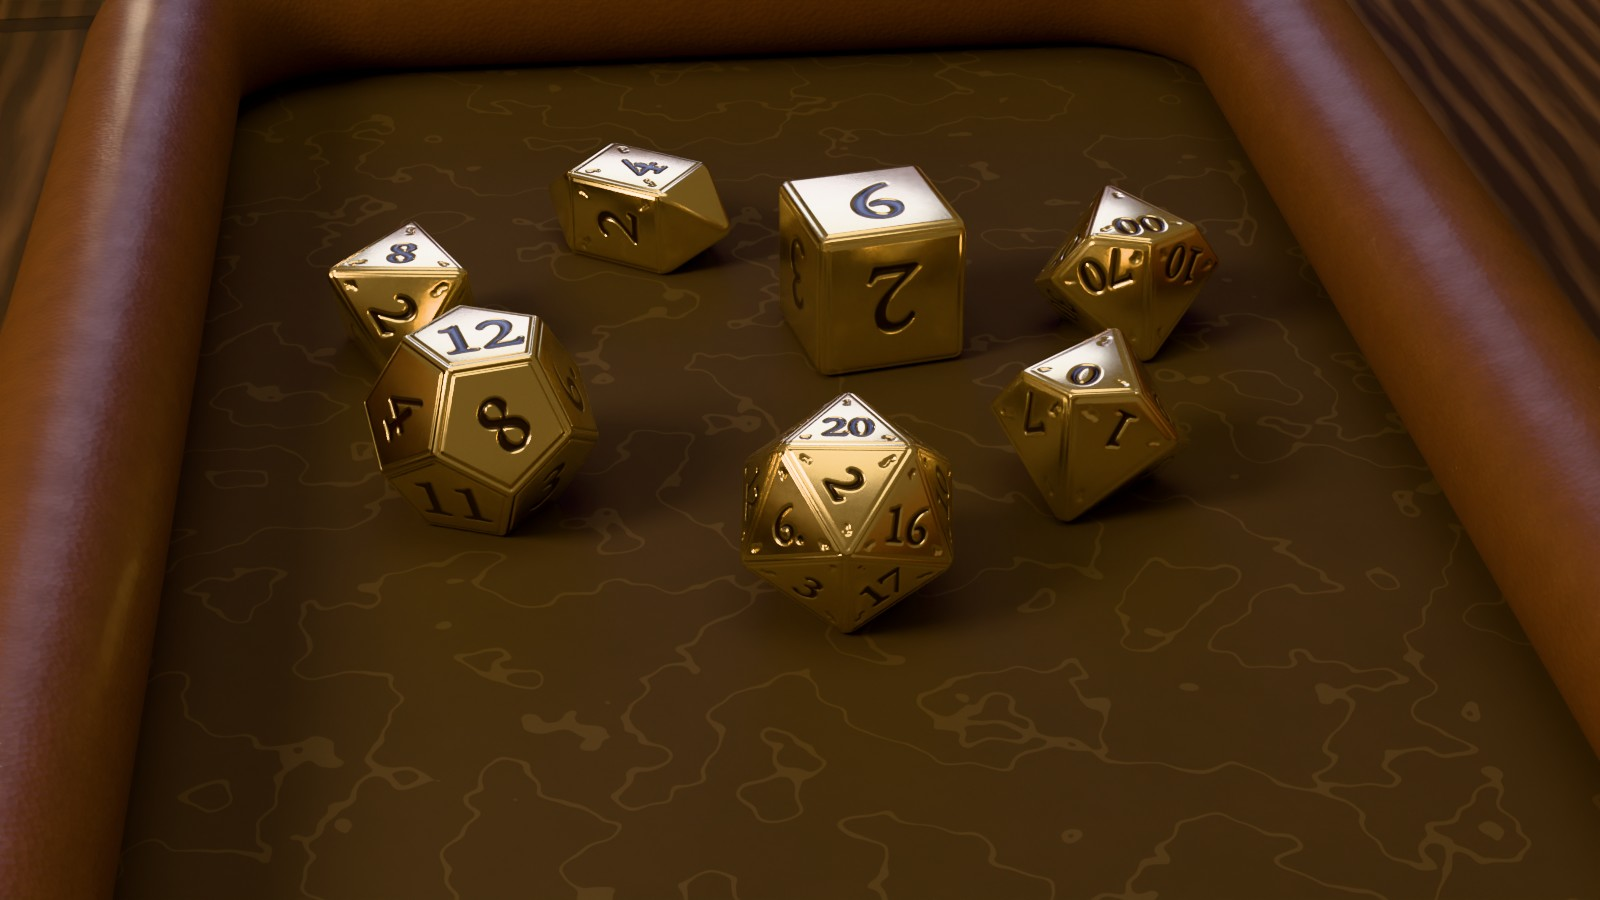
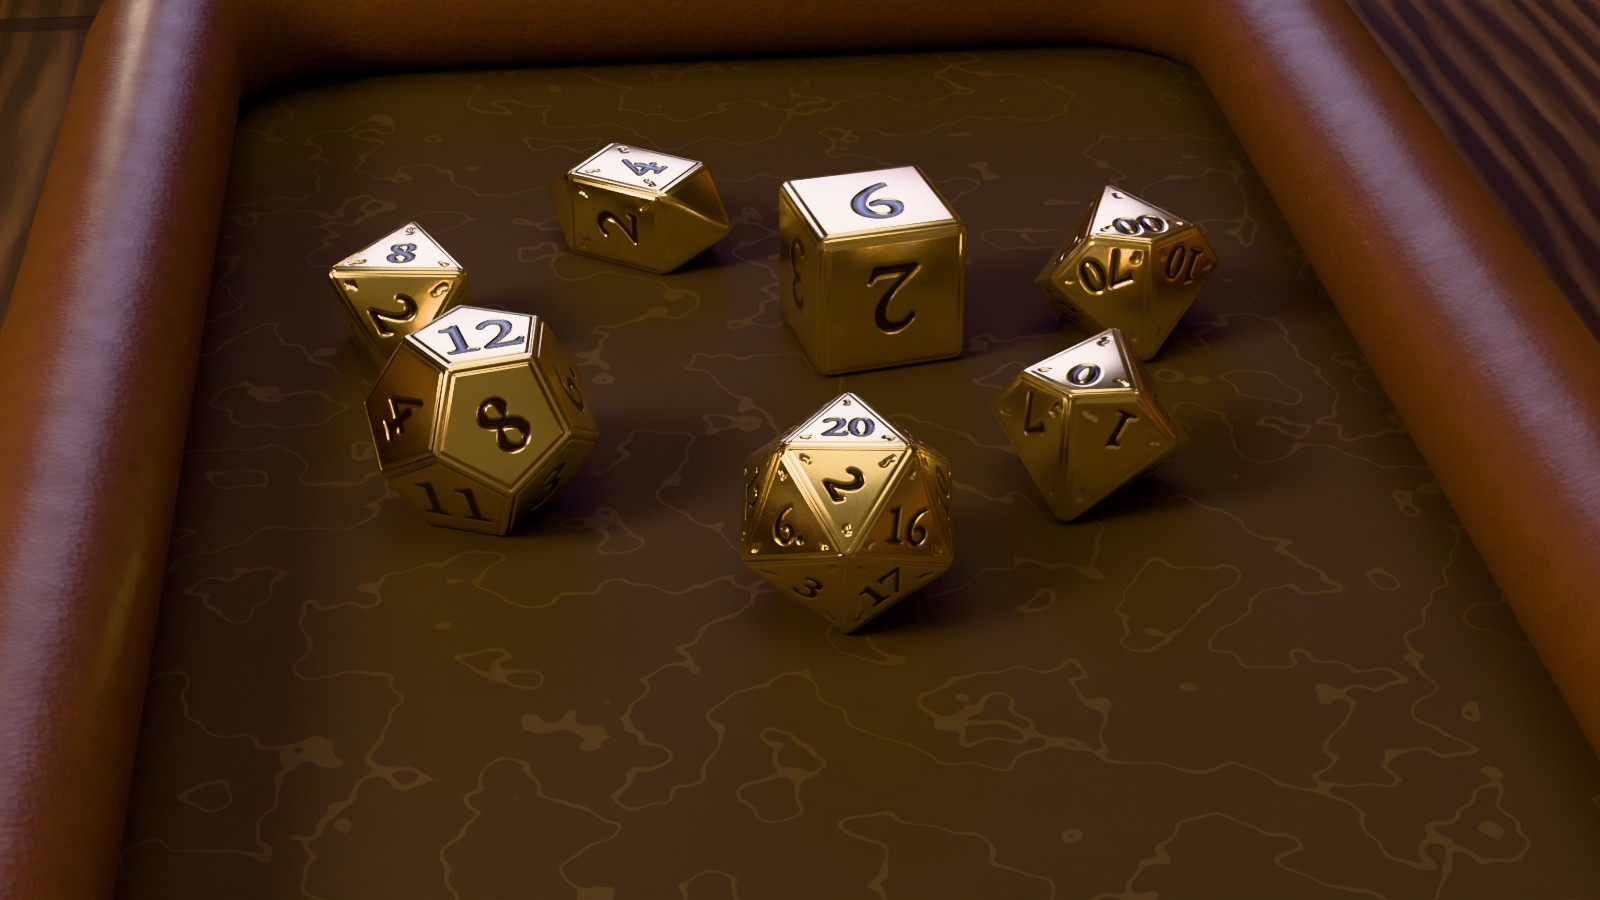
Game rooms: Old Road inn corner; shoji in the kit

diff --git a/dart3d/example/tool/dice_lookdev/build_env_gemcutter.py b/dart3d/example/tool/dice_lookdev/build_env_gemcutter.py
@@ -11,9 +11,11 @@ import math
 import random
 
 import bmesh
+from mathutils import Vector
 
 import env_common as E
 import env_props as P
+import room_common as RC
 
 W, D = E.TRAY_W, E.TRAY_D
 RIM_T, RIM_H = 2.8, 2.6
@@ -104,6 +106,77 @@ def build(scene):
     E.light(scene, "AREA", "fill", (-35, -45, 35), 10000, color=(1.0, 0.85, 0.7), size=40, target=(0, 0, 0))
     E.overhead(scene, 9000, color=(0.95, 0.97, 1.0), size=90, height=110)  # gold enamel reads top-down
     E.light(scene, "AREA", "rim", (30, 60, 20), 2000, color=(0.7, 0.9, 1.0), size=30, target=(0, 0, 2))
+    rc = room(scene, top)
     return dict(
         samples=128, exposure=0.5, topdown=dict(width=W + 2 * RIM_T + 1.0), hero=dict(dist=32, elev=30, az=-8, lens=65, fstop=2.8),
+        play_view=True, tray_half=(W / 2 + RIM_T, D / 2 + RIM_T), room_cam=rc,
     )
+
+
+def room(scene, top):
+    """The jeweler's workshop (concept: room-concepts/gemcutter-room).
+
+    Dark panelled walls, a tall window at the back-right onto a spired city
+    at sunset, a many-drawered gem chest and a tool rack on the right, glass
+    display shelves of cut stones on the left, a brass balance on the bench.
+    Lights from four sides: the bench lamp (cool white key, from the back,
+    now on a proper arm), the sunset window (warm orange, back-right), an
+    emerald-glass lamp on the gem chest (green accent, right) and a brass
+    wall lamp on the left (warm); plus the tray's fill, overhead and rim.
+    """
+    panel = P.dark_wood("Atelier panel", c1=(0.025, 0.014, 0.01), c2=(0.07, 0.04, 0.025), varnish=0.5)
+    walnut = P.dark_wood("Atelier walnut", c1=(0.05, 0.025, 0.012), c2=(0.16, 0.08, 0.04), varnish=0.7)
+    brass = P.brass("Atelier brass", worn=0.4)
+    RC.shell(half_w=180, back=150, front=-180, height=260, wall=panel, floor=RC.planks("Atelier floor"),
+             openings={"back": [(70, 80, 110, 170)]})
+    RC.work_table(200, 150, top_z=0.0, thick=6.0, mat=walnut, leg_r=6, y=20, top=False)
+    sunset = RC.sky("Atelier sunset", (0.1, 0.1, 0.3), (1.0, 0.55, 0.25), strength=0.9,
+                    skyline=((0.03, 0.025, 0.05), 0.35))
+    RC.window("back", 70, 80, 110, 170, sunset, brass, mullions=(3, 4), bar=1.2,
+              glow=(35000, (1.0, 0.62, 0.35)))
+    # the bench lamp's arm (its head and light come from the tray environment)
+    E.cylinder("lamp_arm", 0.8, 42, (12, top + 22, 20), brass, segs=12)
+    E.cylinder("lamp_base", 6, 2, (12, top + 22, 1), brass, segs=32)
+    # a many-drawered gem chest on the right with an emerald lamp on it
+    chest = RC.cabinet("right", 60, w=90, h=110, depth=45, mat=walnut, top_mat=walnut, doors=1)
+    knob = E.simple("Drawer brass", (0.8, 0.6, 0.3), 0.3, 1.0)
+    for i in range(4):
+        for j in range(6):
+            p = RC.to_world("right", 60 - 33 + i * 22, (0, -46, RC.FLOOR_Z + 14 + j * 16))
+            E.cube("drawer_front", (1.2, 20, 14), p, walnut, bevel=0.3)
+            E.sphere("drawer_knob", 1.0, p + Vector((-1.5, 0, 0)), knob, subdiv=1)
+    lp = RC.to_world("right", 60, (0, -25, RC.FLOOR_Z + 112))
+    E.cube("emerald_lamp", (14, 14, 24), (lp.x, lp.y, lp.z + 14), P.glass("Emerald lamp glass",
+           color=(0.2, 0.9, 0.4), rough=0.15)).visible_shadow = False
+    E.cylinder("emerald_lamp_cap", 9, 5, (lp.x, lp.y, lp.z + 28), brass, segs=4, r2=2)
+    E.sphere("emerald_core", 4, (lp.x, lp.y, lp.z + 13), E.emissive("Emerald glow", (0.1, 1.0, 0.35), 8.0))
+    E.light(scene, "POINT", "emerald_light", (lp.x, lp.y, lp.z + 13), 12000, color=(0.2, 1.0, 0.4), size=6,
+            shadow=False)
+    # tool rack on the right wall: pliers, files and gravers standing in a block
+    rng = random.Random(33)
+    steel = E.simple("Tool steel", (0.6, 0.6, 0.62), 0.25, 1.0)
+    for i in range(16):
+        p = RC.to_world("right", -20 + i * 4, (0, -6, RC.FLOOR_Z + 150 + rng.uniform(-4, 4)))
+        E.cylinder("tool", 0.5, rng.uniform(16, 26), p, steel, segs=8)
+    E.cube("tool_rack", (6, 70, 4), RC.to_world("right", 10, (0, -6, RC.FLOOR_Z + 142)), walnut)
+    # glass display shelves of cut stones on the left wall
+    gem_cols = [(0.1, 0.8, 0.3), (0.8, 0.1, 0.15), (0.15, 0.3, 0.9), (0.9, 0.9, 0.95), (0.7, 0.5, 0.1)]
+    for j, z in enumerate((RC.FLOOR_Z + 110, RC.FLOOR_Z + 150, RC.FLOOR_Z + 190)):
+        E.cube("display_shelf", (30, 160, 2), RC.to_world("left", 30, (0, -15, z)), P.glass("Shelf glass"))
+        for i in range(8):
+            p = RC.to_world("left", -40 + i * 20, (0, -15, z + 4))
+            E.sphere("display_gem", 2.8, p, P.glass(f"Gem {j} {i}", color=gem_cols[(i + j) % 5], ior=1.7),
+                     subdiv=1, scale=(1, 1, 0.8))
+    RC.sconce(scene, "left", -60, 90, energy=12000, mat=brass)
+    # a brass balance on the bench, behind-left of the tray
+    bx, by = -45, 70
+    E.cylinder("balance_base", 7, 2, (bx, by, 1), brass, segs=32)
+    E.cylinder("balance_post", 0.8, 34, (bx, by, 18), brass, segs=12)
+    E.cube("balance_beam", (36, 1, 1), (bx, by, 35), brass)
+    for sx in (-1, 1):
+        for a in range(3):
+            ang = a * 2.09
+            ch = E.cylinder("balance_chain", 0.15, 16, (bx + sx * 17 + math.cos(ang) * 2.5, by + math.sin(ang) * 2.5,
+                                                        27), brass, segs=4)
+        E.cylinder("balance_pan", 6, 1, (bx + sx * 17, by, 19), brass, segs=32, r2=4)
+    return dict(loc=(-20, -72, 42), target=(18, 100, 6), lens=20, fstop=4.0, focus=(0, 0, 2))

diff --git a/dart3d/example/tool/dice_lookdev/build_env_vermilion.py b/dart3d/example/tool/dice_lookdev/build_env_vermilion.py
@@ -12,6 +12,7 @@ import random
 
 import env_common as E
 import env_props as P
+import room_common as RC
 
 W, D = E.TRAY_W, E.TRAY_D
 RIM_T, RIM_H = 2.2, 2.4
@@ -135,4 +136,73 @@ def build(scene):
     return dict(
         samples=128, exposure=1.3, topdown=dict(width=W + 2 * RIM_T + 1.0), surface_z=1.2, centre=(0, 2.0, 2.2),
         hero=dict(dist=32, elev=30, az=8, lens=65, fstop=2.8),
+        play_view=True, tray_half=(W / 2 + RIM_T, D / 2 + RIM_T), room_cam=room(scene, lac),
     )
+
+
+def room(scene, lac):
+    """The lantern pavilion (concept: room-concepts/vermilion-room).
+
+    A tatami room (the tray sits on the mats; floor z = 0) with lacquered
+    posts, shoji walls glowing on the left, the gold-leaf folding screen
+    behind the tray, and the back open onto a veranda railing over dusk
+    mountains, a pagoda silhouette and a cherry tree. Lights from four
+    sides: a paper andon floor lantern (warm, left), a big vermilion paper
+    lantern (red accent, right), the dusk sky through the opening (cool
+    violet, back) and the tray's warm key and overhead.
+    """
+    wood = P.dark_wood("Pavilion wood", c1=(0.03, 0.012, 0.008), c2=(0.1, 0.04, 0.02), varnish=0.7)
+    red = E.simple("Vermilion lacquer", (0.45, 0.04, 0.02), 0.25, Coat_Weight=1.0)
+    RC.shell(half_w=200, back=180, front=-200, height=230, wall=RC.plaster("Pavilion plaster", (0.35, 0.3, 0.24)),
+             floor=False, floor_z=0.0, openings={"back": [(0, 105, 300, 190)]},
+             ceiling=P.dark_wood("Pavilion ceiling", c1=(0.03, 0.015, 0.01), c2=(0.07, 0.035, 0.02)))
+    dusk = RC.sky("Pavilion dusk", (0.08, 0.07, 0.2), (0.5, 0.3, 0.4), stars=0.8, strength=0.8,
+                  skyline=((0.06, 0.05, 0.12), 0.35, False))
+    RC.window("back", 0, 105, 300, 190, dusk, wood, mullions=(1, 1), sill=False, glow=(30000, (0.6, 0.55, 1.0)))
+    # the veranda beyond: posts and a railing, a pagoda and a cherry tree against the sky
+    for x in (-150, -50, 50, 150):
+        E.cube("veranda_post", (12, 12, 230), (x, 230, 115), red, bevel=1.0)
+    E.cube("veranda_rail", (320, 6, 5), (0, 230, 55), red, bevel=0.5)
+    E.cube("veranda_rail_low", (320, 6, 4), (0, 230, 25), red, bevel=0.5)
+    E.plane("veranda_deck", 360, 100, (0, 230, -0.5), wood)
+    far = E.emissive("Pagoda silhouette", (0.05, 0.04, 0.09), 1.0)
+    px, py = 90, 262
+    for i, (wd, z) in enumerate(((46, 120), (38, 145), (30, 168), (22, 188))):
+        E.cube("pagoda_body", (wd * 0.6, 8, 20), (px, py, z), far)
+        E.cylinder("pagoda_roof", wd * 0.75, 7, (px, py, z + 12), far, segs=4, r2=wd * 0.25).rotation_euler = \
+            (0, 0, math.radians(45))
+    E.cylinder("pagoda_spire", 0.8, 25, (px, py, 210), far, segs=6)
+    E.cube("pagoda_hill", (160, 8, 110), (px + 10, py + 2, 50), far)
+    bark = E.simple("Cherry bark", (0.03, 0.02, 0.02), 0.8)
+    blossom = E.simple("Blossom", (0.95, 0.6, 0.7), 0.6, Subsurface_Weight=0.4, Emission_Color=(1.0, 0.6, 0.7, 1),
+                       Emission_Strength=0.15)
+    tr = E.cylinder("cherry_trunk", 6, 200, (-110, 250, 100), bark, segs=12, r2=3)
+    tr.rotation_euler = (0, math.radians(8), 0)
+    rng = random.Random(12)
+    for i in range(22):
+        E.rock(f"blossom{i}", rng.uniform(12, 22), (-110 + rng.uniform(-70, 60), 250 + rng.uniform(-10, 15),
+                                                    rng.uniform(150, 230)), blossom, seed=300 + i,
+               squash=(1.2, 0.8, 0.8), strength=0.4, subdiv=3)
+    # lacquered posts at the corners of the room, a lintel over the opening
+    for x in (-160, 160):
+        E.cube("post", (14, 14, 230), (x, 170, 115), wood, bevel=1.0)
+    # shoji along the left wall, glowing
+    for u in (-140, -60, 20, 100):
+        RC.shoji("left", u, 78, 190, wood, glow=0.35)
+    # a tansu chest on the right wall, cushions on the mats
+    RC.cabinet("right", 60, w=110, h=70, depth=45, mat=wood, top_mat=red, doors=3)
+    cush = E.simple("Zabuton", (0.05, 0.05, 0.14), 0.8, Sheen_Weight=0.8)
+    for x, y in ((-70, -10), (70, -30)):
+        E.cube("zabuton", (55, 55, 9), (x, y, 4.5), cush, bevel=3.5)
+    # the andon: a paper floor lantern on the left (warm)
+    ax, ay = -110, 70
+    for sx in (-1, 1):
+        for sy in (-1, 1):
+            E.cube("andon_leg", (2.5, 2.5, 70), (ax + sx * 12, ay + sy * 12, 35), wood)
+    E.cube("andon_paper", (23, 23, 45), (ax, ay, 45), E.simple("Andon paper", (0.9, 0.8, 0.6), 0.9,
+           Emission_Color=(1.0, 0.72, 0.4, 1), Emission_Strength=2.0)).visible_shadow = False
+    E.light(scene, "POINT", "andon_light", (ax, ay, 45), 9000, color=(1.0, 0.7, 0.4), size=10)
+    # a big vermilion paper lantern hung on the right (the red accent)
+    RC.paper_lantern(scene, 120, 40, 130, r=26, color=(1.0, 0.18, 0.06), energy=14000,
+                     light_color=(1.0, 0.35, 0.15))
+    return dict(loc=(-12, -78, 48), target=(8, 120, 8), lens=20, fstop=4.0, focus=(0, 0, 2))

diff --git a/dart3d/example/tool/dice_lookdev/build_env_oldroad.py b/dart3d/example/tool/dice_lookdev/build_env_oldroad.py
@@ -100,25 +100,27 @@ def room(scene, table, top):
     (back-right); plus the tray's overhead and warm key.
     """
     wy = top + 75
-    wall = RC.plaster("Inn plaster", (0.3, 0.24, 0.17))
+    wall = RC.plaster("Inn plaster", (0.45, 0.36, 0.25))
     timber = P.dark_wood("Inn timber", c1=(0.03, 0.017, 0.008), c2=(0.09, 0.05, 0.022), rough=0.8, varnish=0.0)
     RC.shell(half_w=170, back=wy, front=-180, height=240, wall=wall, floor=RC.planks("Inn floor"),
              openings={"back": [(0, 45, 70, 80)]})
-    RC.half_timber("back", (-165, -60, 60, 165), timber, rails=(RC.FLOOR_Z + 95,))
+    RC.half_timber("back", (-165, -60), timber, rails=(RC.FLOOR_Z + 175,))
+    RC.half_timber("back", (60, 165), timber, rails=())
     RC.half_timber("left", (-150, -40, 70), timber, rails=(RC.FLOOR_Z + 95,))
-    RC.half_timber("right", (-150, 70), timber, rails=(RC.FLOOR_Z + 170,), braces=False)
-    RC.beams(timber, n=3, size=(18, 22))
+    RC.half_timber("right", (-150, 0, 120), timber, rails=(RC.FLOOR_Z + 170,), braces=False)
+    # no ceiling beams: the gold dice mirror what is above them, and a dark
+    # beam over the table dims the d4's faces below the readability gate
     dusk = RC.sky("Inn dusk", (0.03, 0.06, 0.18), (0.35, 0.22, 0.3), strength=0.8, skyline=((0.02, 0.025, 0.05), 0.3))
-    RC.window("back", 0, 45, 70, 80, dusk, timber, mullions=(1, 1), sill=True, glow=(18000, (0.55, 0.55, 1.0)))
+    RC.window("back", 0, 45, 70, 80, dusk, timber, mullions=(1, 1), sill=True, glow=(8000, (0.55, 0.55, 1.0)))
     RC.work_table(200, 150, top_z=0.0, thick=6.0, mat=table, leg_r=7, y=20, top=False)
-    RC.fireplace(scene, "right", -30, w=120, h=110, depth=45, energy=130000, seed=7,
+    RC.fireplace(scene, "right", 60, w=120, h=100, depth=45, energy=60000, seed=7, base=40,
                  mat=RC.stone("Inn fieldstone", (0.1, 0.085, 0.07), (0.26, 0.22, 0.17), scale=0.03))
     fur = E.simple("Stool fur", (0.25, 0.2, 0.15), 0.95, Sheen_Weight=1.0)
-    E.cube("stool_seat", (40, 34, 6), (105, -40, RC.FLOOR_Z + 40), timber, bevel=0.8)
+    E.cube("stool_seat", (40, 34, 6), (115, -70, RC.FLOOR_Z + 40), timber, bevel=0.8)
     for sx in (-1, 1):
         for sy in (-1, 1):
-            E.cube("stool_leg", (4, 4, 38), (105 + sx * 16, -40 + sy * 13, RC.FLOOR_Z + 19), timber)
-    E.rock("stool_fur", 22, (105, -40, RC.FLOOR_Z + 46), fur, seed=8, squash=(1.0, 0.85, 0.25), strength=0.25)
+            E.cube("stool_leg", (4, 4, 38), (115 + sx * 16, -70 + sy * 13, RC.FLOOR_Z + 19), timber)
+    E.rock("stool_fur", 22, (115, -70, RC.FLOOR_Z + 46), fur, seed=8, squash=(1.0, 0.85, 0.25), strength=0.25)
     # the travel pack on a chair behind the table, the staff leaning on the table edge
     RC.chair(60, 115, rot=math.radians(180), mat=timber)
     pack = leather("Pack canvas", (0.12, 0.1, 0.06))
@@ -138,4 +140,4 @@ def room(scene, table, top):
     P.candle(scene, 130, 120, RC.FLOOR_Z + 74, h=10, r=1.8, seed=9, light=False)
     E.light(scene, "POINT", "side_candle", (130, 120, RC.FLOOR_Z + 90), 4000, color=(1.0, 0.6, 0.3), size=2)
     RC.rug(0, -40, 240, 160, (0.3, 0.08, 0.05), (0.12, 0.05, 0.03), name="Inn rug")
-    return dict(loc=(18, -70, 40), target=(-2, 90, 4), lens=20, fstop=4.0, focus=(0, 0, 2))
+    return dict(loc=(10, -72, 40), target=(40, 90, 4), lens=20, fstop=4.0, focus=(0, 0, 2))

diff --git a/dart3d/example/tool/dice_lookdev/room_common.py b/dart3d/example/tool/dice_lookdev/room_common.py
@@ -389,6 +389,30 @@ def arch_opening(wall, u, z_bottom, w, h, mat, depth=24, sky_mat=None, columns=T
     return _group("arch", parts, loc + Vector((0, 0, FLOOR_Z)), rz)
 
 
+def shoji(wall, u, w, h, frame_mat, glow=0.6, glow_color=(1.0, 0.85, 0.6), grid=(4, 6), z0=None):
+    """A sliding paper screen against `wall`: a wooden lattice over washi
+    that glows faintly (lamplight beyond)."""
+    z0 = FLOOR_Z if z0 is None else z0
+    zl = z0 - FLOOR_Z
+    m, k = E.material(f"Washi {glow}")
+    obj = k.coords().outputs["Object"]
+    n = k.noise(obj, 0.4, 6).outputs["Fac"]
+    k.surface(k.add_shader(k.bsdf(Base_Color=(0.85, 0.8, 0.7, 1), Roughness=0.9, Transmission_Weight=0.3),
+                           k.emission((*glow_color, 1), k.math("MULTIPLY", k.math("ADD", n, 0.5), glow))))
+    paper = E.plane("shoji_paper", w, h, (0, -2, zl + h / 2), m)
+    paper.rotation_euler = (math.radians(90), 0, 0)
+    paper.visible_shadow = False
+    parts = [paper]
+    nx, nz = grid
+    for i in range(nx + 1):
+        parts.append(E.cube("shoji_stile", (2.2 if 0 < i < nx else 4, 3, h), (-w / 2 + i * w / nx, -3.5, zl + h / 2),
+                            frame_mat))
+    for j in range(nz + 1):
+        parts.append(E.cube("shoji_rail", (w, 3, 2.2 if 0 < j < nz else 4), (0, -3.5, zl + j * h / nz), frame_mat))
+    loc, rz = _wall_frame(wall, u)
+    return _group("shoji", parts, loc + Vector((0, 0, FLOOR_Z)), rz)
+
+
 def column(x, y, h, r, mat, base=True):
     E.cylinder("column", r, h, (x, y, FLOOR_Z + h / 2), mat, segs=24)
     if base:

diff --git a/docs/design/dice-lookdev.md b/docs/design/dice-lookdev.md
@@ -1122,6 +1122,18 @@ Lighting recipes (the tray lights are unchanged unless noted):
   over the tray's reading key and cool fill. Camera: 20 mm, f/4. Gate:
   numeral 5.45 (d4), die vs tray 2.21, stroke 0.123–0.129, PASS.
 
+- **Old Road — the wayfarer's inn corner.** Timber-and-plaster walls, a
+  small window at the back onto the blue hour (area, 8 kW, cool), a raised
+  fieldstone hearth on the right wall (60 kW, warm side light) with a fur
+  stool, a travel pack on a chair, a walking staff, a barrel and a shelf of
+  jugs; a candle on a side table back-right (4 kW). The tin lantern on the
+  table stays the warm key from the left, with the tray's overhead and
+  warm key. No ceiling beams here: the polished-gold dice mirror what is
+  above them, and a dark beam over the table pulled the d4 below the gate
+  (4.18); without beams it is back to 4.60. Camera: 20 mm, turned right
+  to take in the hearth. Gate: numeral 4.60 (d4), die vs tray 2.95,
+  stroke 0.123–0.128, PASS.
+
 ## 4. dart3d features to verify (before building these for real)
 
 1. **Emissive intensity > 1 + bloom threshold** on both platforms, and
